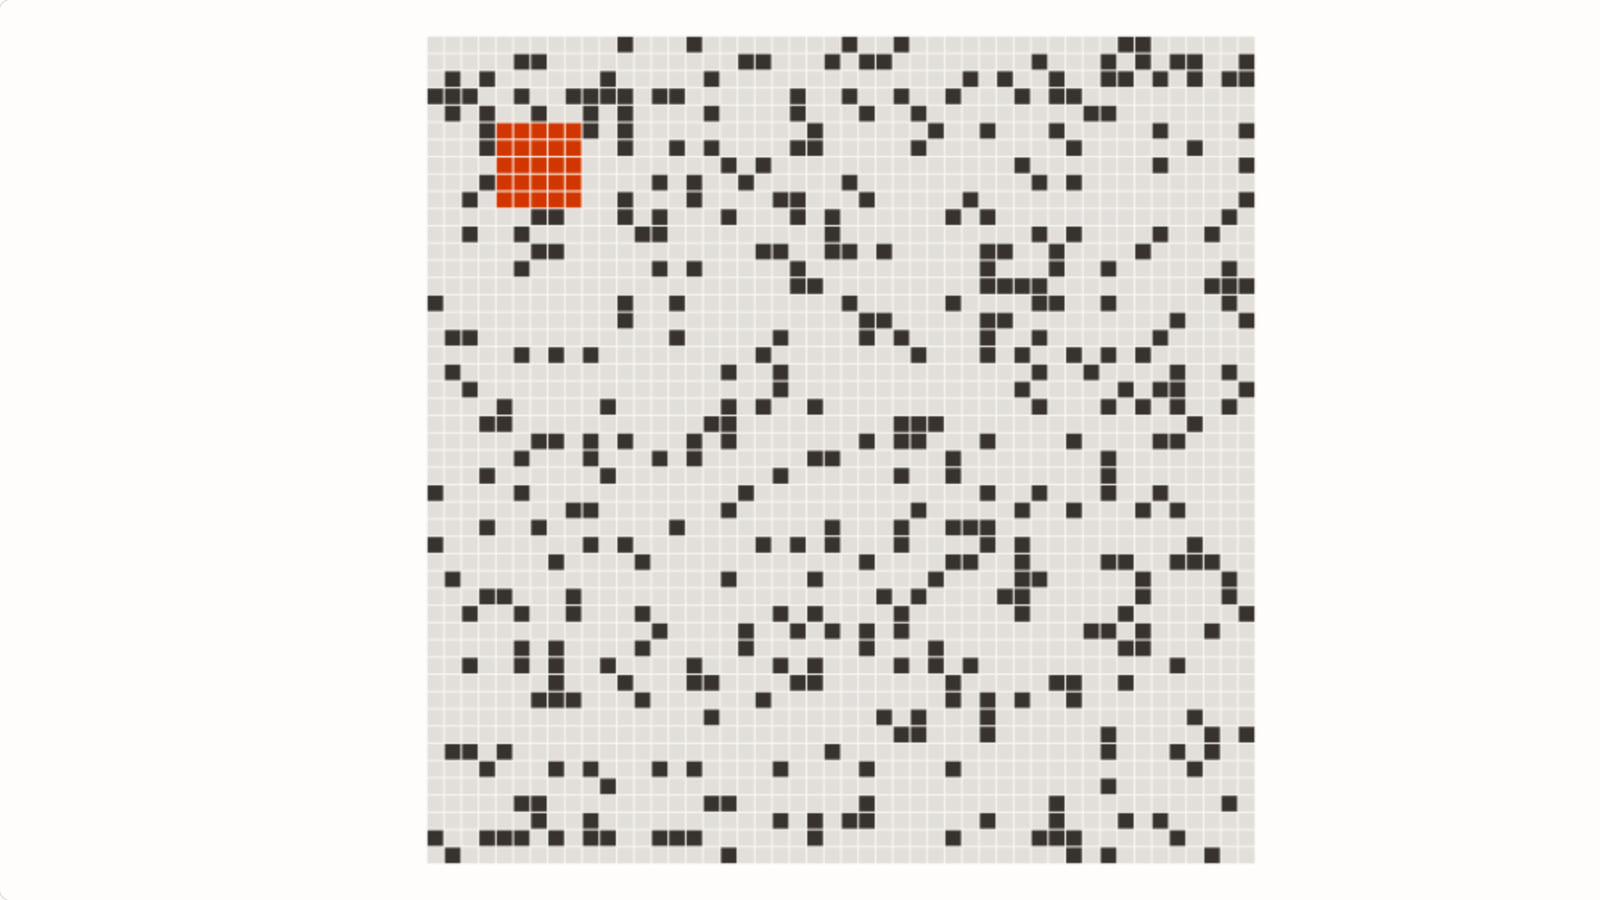
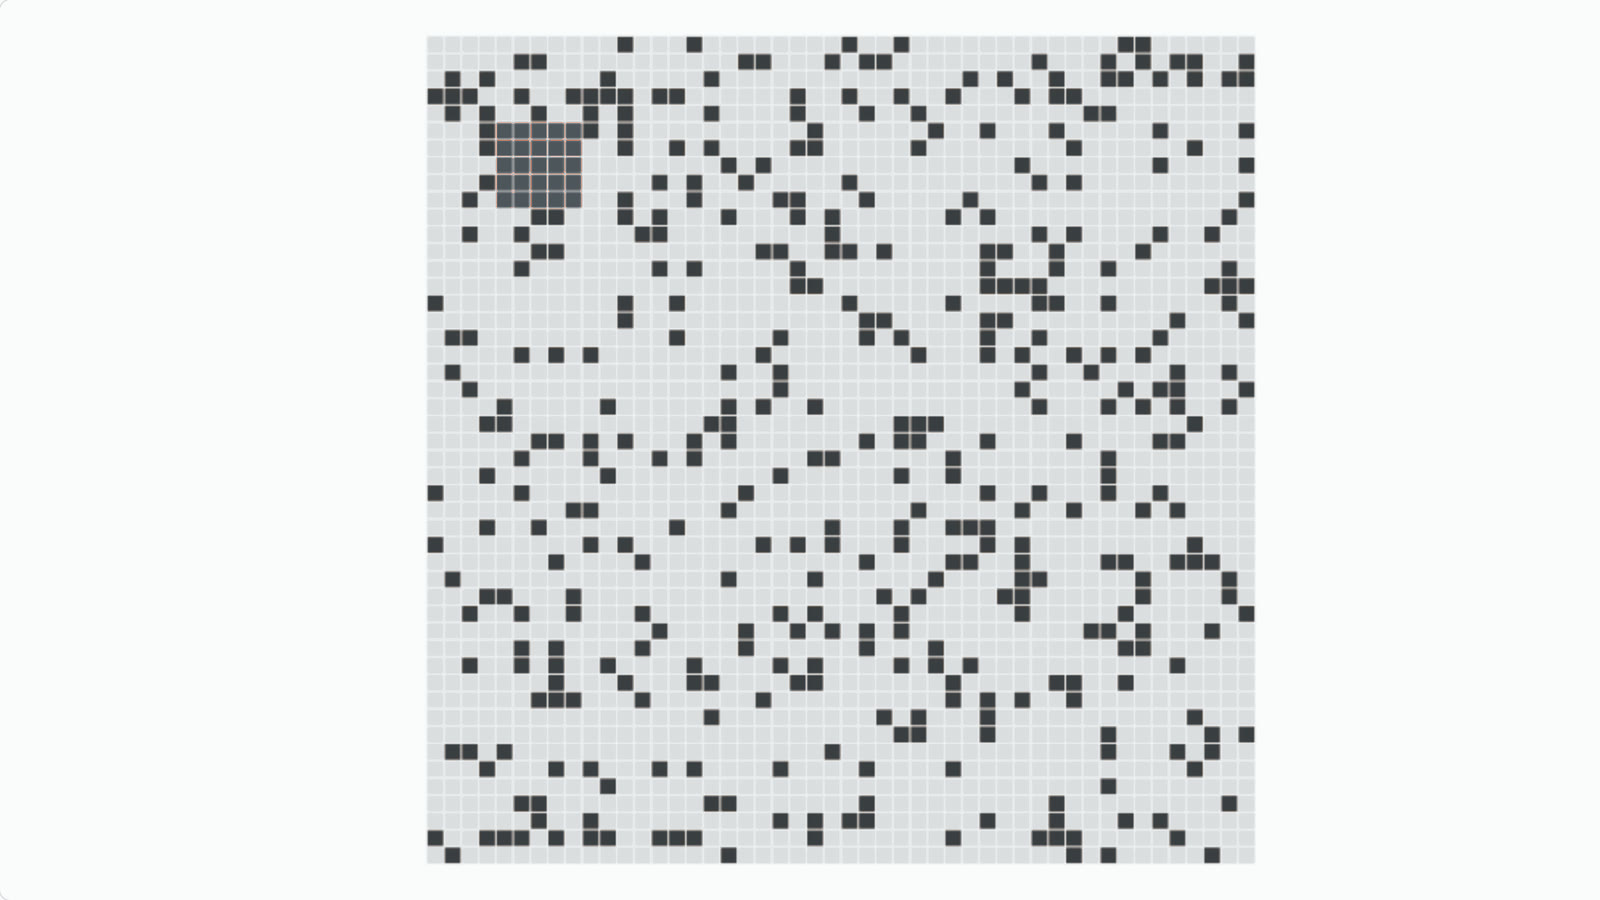
Passe la palette en gris graphite (#1)
* Passe la palette en noir et blanc metal

L'orange donnait au site un air de studio d'architecture, loin de ce que
le portfolio raconte. Il disparait au profit d'une palette monochrome ou
la couleur ne vient plus d'une teinte de marque mais de la matiere.

Tous les gris partagent desormais la meme teinte froide (248 en oklch),
celle des metaux legers : un neutre jamais tout a fait neutre, qui evite
le gris d'imprimante sans introduire de couleur. Deux reperes, pris sur
les metaux eux-memes : le magnesium #C1C2C3 comme accent du mode sombre,
le titane #545B62 pour le mode clair, ou l'accent doit foncer pour
exister.

Le texte se lit en trois valeurs plutot qu'en trois couleurs, sans
toucher aux composants : les titres sur --foreground, les paragraphes
sur ce meme ton a 85 % — ce qui les pose sur le magnesium en sombre —
et les legendes sur --muted-foreground, a hauteur de titane. Contrastes
verifies : 16,4:1 et 6,1:1 en sombre, 17,2:1 et 4,7:1 en clair, tous
au-dessus du seuil AA.

Le carmin des erreurs est conserve : c'est un signal, pas de la
decoration, et un message d'echec en gris ne se voit pas.

Suivent la palette : les couleurs de repli des demos <canvas>, qui
etaient encore orange et passent au monochrome (ce qui distingue le
depart de l'arrivee devient l'ecart de valeur) ; la couleur de barre
d'adresse mobile, qui pointait sur les anciens fonds ; et le favicon,
repasse en plaque magnesium a lettres anthracite, meme geometrie Geist
Mono qu'avant.
[…]

Changed region(s): [[0.3125, 0.1244, 0.375, 0.2489]]

diff --git a/src/app/globals.css b/src/app/globals.css
@@ -51,132 +51,146 @@
 }
 
 /* ------------------------------------------------------------------
-   Palette : noir · gris · orange #D23600.
+   Palette : graphite · gris métal.
 
-   L'orange de marque vaut oklch(0.569 0.199 35.2). Il est repris tel
-   quel en mode clair, où il tient le contraste AA sur le fond papier
-   (4,6:1). Sur le noir il tomberait à 4,1:1 : le mode sombre l'éclaircit
-   à L 0.685 pour repasser au-dessus (6,2:1).
+   Pas de teinte de marque : la couleur vient de la matière. Tous les gris
+   partagent la même teinte froide (248), celle des métaux légers — un
+   neutre jamais tout à fait neutre, qui évite le gris d'imprimante sans
+   introduire de couleur.
 
-   Les gris sont très légèrement chauds (teinte ~45) pour que l'orange
-   ne flotte pas sur un neutre froid.
+   Le fond n'est ni noir ni blanc mais gris des deux côtés : #131517 en
+   sombre, #F1F2F4 en clair. C'est ce qui donne leur place aux surfaces —
+   sur un noir profond, une carte ne se distingue plus que par sa bordure.
+
+   Deux repères, pris sur les métaux eux-mêmes :
+     magnésium #C4C6C8 — oklch(0.826 0.004 248), l'accent du mode sombre
+     titane    #4E555C — oklch(0.446 0.015 248), l'accent du mode clair
+
+   Le texte se lit en trois valeurs, pas en trois couleurs : les titres
+   sur `--foreground`, les paragraphes sur ce même ton à 85 %, les dates
+   et les légendes sur `--muted-foreground`, à hauteur de titane. Tout
+   tient le contraste AA sur son fond : 14,6:1 pour les titres en sombre,
+   6,5:1 pour les légendes, 15,3:1 et 5,0:1 en clair.
+
+   Seule couleur qui subsiste : le carmin des erreurs. Ce n'est pas de la
+   décoration, c'est un signal — un message d'échec en gris ne se voit
+   pas.
    ------------------------------------------------------------------ */
 
 :root {
-    /* Fond « papier » plutôt que blanc pur : sur du blanc, l'orange
-       vibre et fatigue. */
-    --background: oklch(0.978 0.005 70);
-    --foreground: oklch(0.205 0.008 45);
-    --card: oklch(0.996 0.003 70);
-    --card-foreground: oklch(0.205 0.008 45);
-    --popover: oklch(0.996 0.003 70);
-    --popover-foreground: oklch(0.205 0.008 45);
+    --background: oklch(0.961 0.003 248);
+    --foreground: oklch(0.225 0.005 248);
+    --card: oklch(0.987 0.002 248);
+    --card-foreground: oklch(0.225 0.005 248);
+    --popover: oklch(0.987 0.002 248);
+    --popover-foreground: oklch(0.225 0.005 248);
 
-    /* #D23600 exactement. */
-    --primary: oklch(0.569 0.199 35.2);
-    --primary-foreground: oklch(0.985 0.006 70);
+    /* Le bouton principal : gris très sombre, le contraste le plus fort
+       de la page — c'est lui qui remplace l'orange comme point d'appui. */
+    --primary: oklch(0.225 0.005 248);
+    --primary-foreground: oklch(0.961 0.003 248);
 
-    --secondary: oklch(0.945 0.006 55);
-    --secondary-foreground: oklch(0.28 0.012 45);
-    --muted: oklch(0.948 0.005 60);
-    --muted-foreground: oklch(0.492 0.013 45);
-    --accent: oklch(0.935 0.024 45);
-    --accent-foreground: oklch(0.34 0.07 38);
-    /* Décalé vers le carmin : à la teinte d'origine (27) une erreur
-       aurait été confondue avec la couleur de marque. */
+    --secondary: oklch(0.936 0.003 248);
+    --secondary-foreground: oklch(0.3 0.006 248);
+    --muted: oklch(0.936 0.003 248);
+    --muted-foreground: oklch(0.515 0.008 248);
+    --accent: oklch(0.912 0.005 248);
+    --accent-foreground: oklch(0.32 0.008 248);
+    /* Carmin : seule entorse au gris, réservée aux erreurs. */
     --destructive: oklch(0.52 0.215 12);
-    --border: oklch(0.9 0.008 55);
-    --input: oklch(0.9 0.008 55);
-    --ring: oklch(0.569 0.199 35.2);
+    --border: oklch(0.9 0.005 248);
+    --input: oklch(0.9 0.005 248);
+    --ring: oklch(0.446 0.015 248);
 
-    --brand: oklch(0.569 0.199 35.2);
-    --brand-soft: oklch(0.68 0.15 38);
+    /* Titane : sur fond clair, l'accent doit être sombre pour exister. */
+    --brand: oklch(0.446 0.015 248);
+    --brand-soft: oklch(0.573 0.01 248);
 
-    --chart-1: oklch(0.569 0.199 35.2);
-    --chart-2: oklch(0.655 0.16 38);
-    --chart-3: oklch(0.735 0.12 42);
-    --chart-4: oklch(0.81 0.08 46);
-    --chart-5: oklch(0.88 0.045 50);
+    --chart-1: oklch(0.225 0.005 248);
+    --chart-2: oklch(0.446 0.015 248);
+    --chart-3: oklch(0.573 0.01 248);
+    --chart-4: oklch(0.72 0.008 248);
+    --chart-5: oklch(0.85 0.005 248);
 
     --radius: 0.5rem;
 
-    --sidebar: oklch(0.962 0.005 65);
-    --sidebar-foreground: oklch(0.205 0.008 45);
-    --sidebar-primary: oklch(0.569 0.199 35.2);
-    --sidebar-primary-foreground: oklch(0.985 0.006 70);
-    --sidebar-accent: oklch(0.935 0.024 45);
-    --sidebar-accent-foreground: oklch(0.34 0.07 38);
-    --sidebar-border: oklch(0.9 0.008 55);
-    --sidebar-ring: oklch(0.569 0.199 35.2);
+    --sidebar: oklch(0.945 0.003 248);
+    --sidebar-foreground: oklch(0.225 0.005 248);
+    --sidebar-primary: oklch(0.225 0.005 248);
+    --sidebar-primary-foreground: oklch(0.961 0.003 248);
+    --sidebar-accent: oklch(0.912 0.005 248);
+    --sidebar-accent-foreground: oklch(0.32 0.008 248);
+    --sidebar-border: oklch(0.9 0.005 248);
+    --sidebar-ring: oklch(0.446 0.015 248);
 
     /* Démos C rendues sur <canvas> : les canevas ne connaissent pas les
        classes Tailwind, ils lisent ces variables au rendu et se
        redessinent au changement de thème (voir src/lib/demo-theme.ts).
-       Même palette que le reste du site — noir · gris · orange — au lieu
-       du bleu/vert/rouge d'origine, qui n'appartenait à rien. */
-    --demo-surface: oklch(0.996 0.003 70);
-    --demo-free: oklch(0.902 0.006 60);
-    --demo-wall: oklch(0.32 0.012 45);
+       Elles sont monochromes comme le reste : ce qui distingue le départ
+       de l'arrivée, c'est l'écart de valeur, pas la teinte. */
+    --demo-surface: oklch(0.987 0.002 248);
+    --demo-free: oklch(0.9 0.005 248);
+    --demo-wall: oklch(0.362 0.009 248);
     /* Les cases sont séparées par un liseré de cette couleur : sans lui,
        une carte dézoomée devient un aplat où le quadrillage disparaît. */
-    --demo-grid: oklch(0.978 0.005 70);
-    --demo-visited: oklch(0.885 0.042 50);
-    --demo-path: oklch(0.569 0.199 35.2);
-    --demo-start: oklch(0.205 0.008 45);
-    --demo-end: oklch(0.52 0.215 12);
+    --demo-grid: oklch(0.961 0.003 248);
+    --demo-visited: oklch(0.787 0.007 248);
+    --demo-path: oklch(0.446 0.015 248);
+    --demo-start: oklch(0.225 0.005 248);
+    --demo-end: oklch(0.573 0.01 248);
 }
 
 .dark {
-    --background: oklch(0.148 0.008 45);
-    --foreground: oklch(0.948 0.006 70);
-    --card: oklch(0.188 0.009 45);
-    --card-foreground: oklch(0.948 0.006 70);
-    --popover: oklch(0.188 0.009 45);
-    --popover-foreground: oklch(0.948 0.006 70);
+    --background: oklch(0.194 0.005 248);
+    --foreground: oklch(0.924 0.003 248);
+    --card: oklch(0.237 0.006 248);
+    --card-foreground: oklch(0.924 0.003 248);
+    --popover: oklch(0.237 0.006 248);
+    --popover-foreground: oklch(0.924 0.003 248);
 
-    /* Même teinte, éclairci pour le fond noir. */
-    --primary: oklch(0.685 0.19 35.2);
-    --primary-foreground: oklch(0.17 0.03 35);
+    --primary: oklch(0.924 0.003 248);
+    --primary-foreground: oklch(0.194 0.005 248);
 
-    --secondary: oklch(0.255 0.01 45);
-    --secondary-foreground: oklch(0.948 0.006 70);
-    --muted: oklch(0.245 0.009 45);
-    --muted-foreground: oklch(0.68 0.014 50);
-    --accent: oklch(0.29 0.035 40);
-    --accent-foreground: oklch(0.86 0.09 40);
+    --secondary: oklch(0.271 0.007 248);
+    --secondary-foreground: oklch(0.924 0.003 248);
+    --muted: oklch(0.271 0.007 248);
+    --muted-foreground: oklch(0.684 0.007 248);
+    --accent: oklch(0.311 0.007 248);
+    --accent-foreground: oklch(0.9 0.004 248);
     --destructive: oklch(0.665 0.2 12);
-    --border: oklch(0.94 0.03 45 / 11%);
-    --input: oklch(0.94 0.03 45 / 15%);
-    --ring: oklch(0.685 0.19 35.2);
+    --border: oklch(0.311 0.007 248);
+    --input: oklch(0.34 0.008 248);
+    --ring: oklch(0.826 0.004 248);
 
-    --brand: oklch(0.685 0.19 35.2);
-    --brand-soft: oklch(0.56 0.16 35);
+    /* Magnésium : sur le graphite, l'accent s'éclaircit au lieu de foncer. */
+    --brand: oklch(0.826 0.004 248);
+    --brand-soft: oklch(0.684 0.007 248);
 
-    --chart-1: oklch(0.685 0.19 35.2);
-    --chart-2: oklch(0.605 0.165 34);
-    --chart-3: oklch(0.525 0.14 33);
-    --chart-4: oklch(0.445 0.11 32);
-    --chart-5: oklch(0.365 0.075 32);
+    --chart-1: oklch(0.924 0.003 248);
+    --chart-2: oklch(0.826 0.004 248);
+    --chart-3: oklch(0.684 0.007 248);
+    --chart-4: oklch(0.52 0.008 248);
+    --chart-5: oklch(0.37 0.007 248);
 
-    --sidebar: oklch(0.188 0.009 45);
-    --sidebar-foreground: oklch(0.948 0.006 70);
-    --sidebar-primary: oklch(0.685 0.19 35.2);
-    --sidebar-primary-foreground: oklch(0.17 0.03 35);
-    --sidebar-accent: oklch(0.29 0.035 40);
-    --sidebar-accent-foreground: oklch(0.86 0.09 40);
-    --sidebar-border: oklch(0.94 0.03 45 / 11%);
-    --sidebar-ring: oklch(0.685 0.19 35.2);
+    --sidebar: oklch(0.237 0.006 248);
+    --sidebar-foreground: oklch(0.924 0.003 248);
+    --sidebar-primary: oklch(0.924 0.003 248);
+    --sidebar-primary-foreground: oklch(0.194 0.005 248);
+    --sidebar-accent: oklch(0.311 0.007 248);
+    --sidebar-accent-foreground: oklch(0.9 0.004 248);
+    --sidebar-border: oklch(0.311 0.007 248);
+    --sidebar-ring: oklch(0.826 0.004 248);
 
     /* En sombre, le rapport s'inverse : les cases libres sont le gris
        clair, les murs se fondent dans le fond. */
-    --demo-surface: oklch(0.168 0.008 45);
-    --demo-free: oklch(0.44 0.011 50);
-    --demo-wall: oklch(0.225 0.009 45);
-    --demo-grid: oklch(0.148 0.008 45);
-    --demo-visited: oklch(0.44 0.048 42);
-    --demo-path: oklch(0.685 0.19 35.2);
-    --demo-start: oklch(0.948 0.006 70);
-    --demo-end: oklch(0.665 0.2 12);
+    --demo-surface: oklch(0.224 0.006 248);
+    --demo-free: oklch(0.436 0.008 248);
+    --demo-wall: oklch(0.27 0.008 248);
+    --demo-grid: oklch(0.194 0.005 248);
+    --demo-visited: oklch(0.543 0.01 248);
+    --demo-path: oklch(0.826 0.004 248);
+    --demo-start: oklch(0.924 0.003 248);
+    --demo-end: oklch(0.684 0.007 248);
 }
 
 @layer base {
@@ -252,7 +266,7 @@
         display: none;
     }
 
-    /* Liseré orange discret sous les titres de section. */
+    /* Liseré métal discret sous les titres de section. */
     .rule-brand {
         background-image: linear-gradient(
             to right,

diff --git a/src/lib/demo-theme.ts b/src/lib/demo-theme.ts
@@ -25,14 +25,14 @@ const TOKENS = [
 export type DemoPalette = Record<(typeof TOKENS)[number], string>;
 
 const FALLBACK: DemoPalette = {
-  surface: "#111111",
-  free: "#4a4a4a",
-  wall: "#232323",
-  grid: "#141414",
-  visited: "#7a4020",
-  path: "#e5643a",
-  start: "#f0efee",
-  end: "#e05a4a",
+  surface: "#191c1e",
+  free: "#4e5256",
+  wall: "#23272a",
+  grid: "#131517",
+  visited: "#6b7075",
+  path: "#c4c6c8",
+  start: "#e4e6e8",
+  end: "#969a9e",
 };
 
 function read(): DemoPalette {

diff --git a/src/app/(site)/[lang]/layout.tsx b/src/app/(site)/[lang]/layout.tsx
@@ -61,8 +61,8 @@ export async function generateMetadata({
 
 export const viewport: Viewport = {
   themeColor: [
-    { media: "(prefers-color-scheme: light)", color: "#f9f7f4" },
-    { media: "(prefers-color-scheme: dark)", color: "#131110" },
+    { media: "(prefers-color-scheme: light)", color: "#f1f2f4" },
+    { media: "(prefers-color-scheme: dark)", color: "#131517" },
   ],
 };
 
